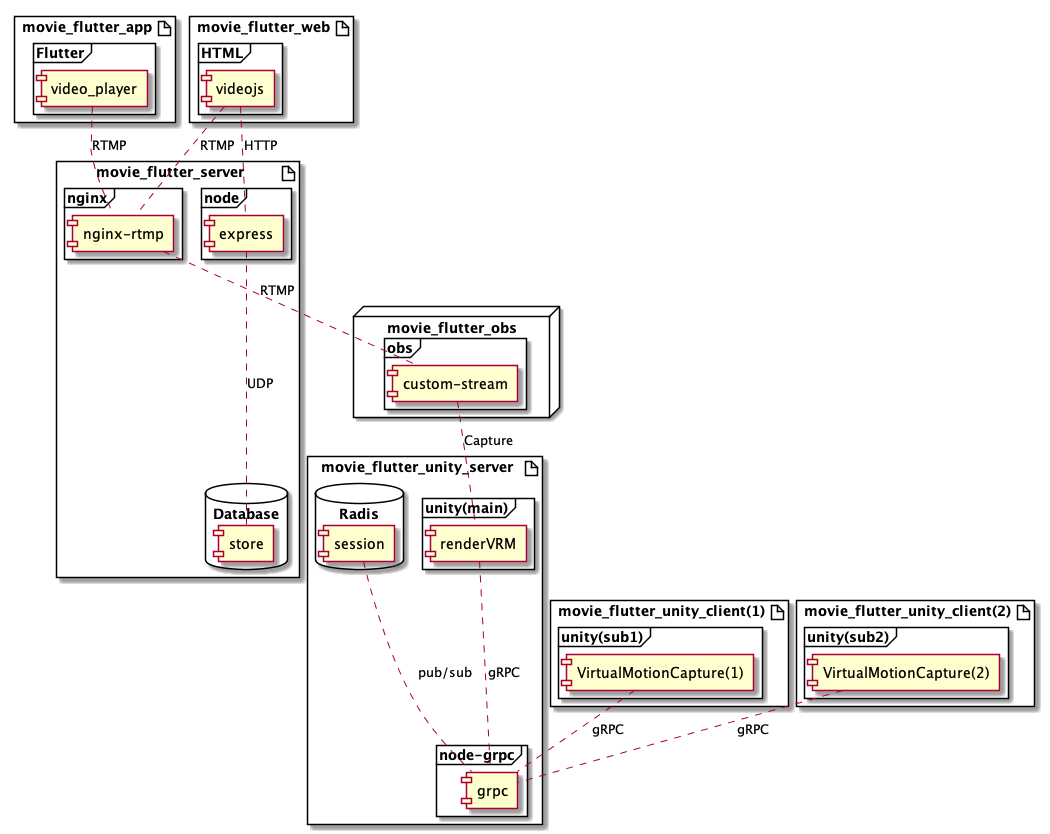
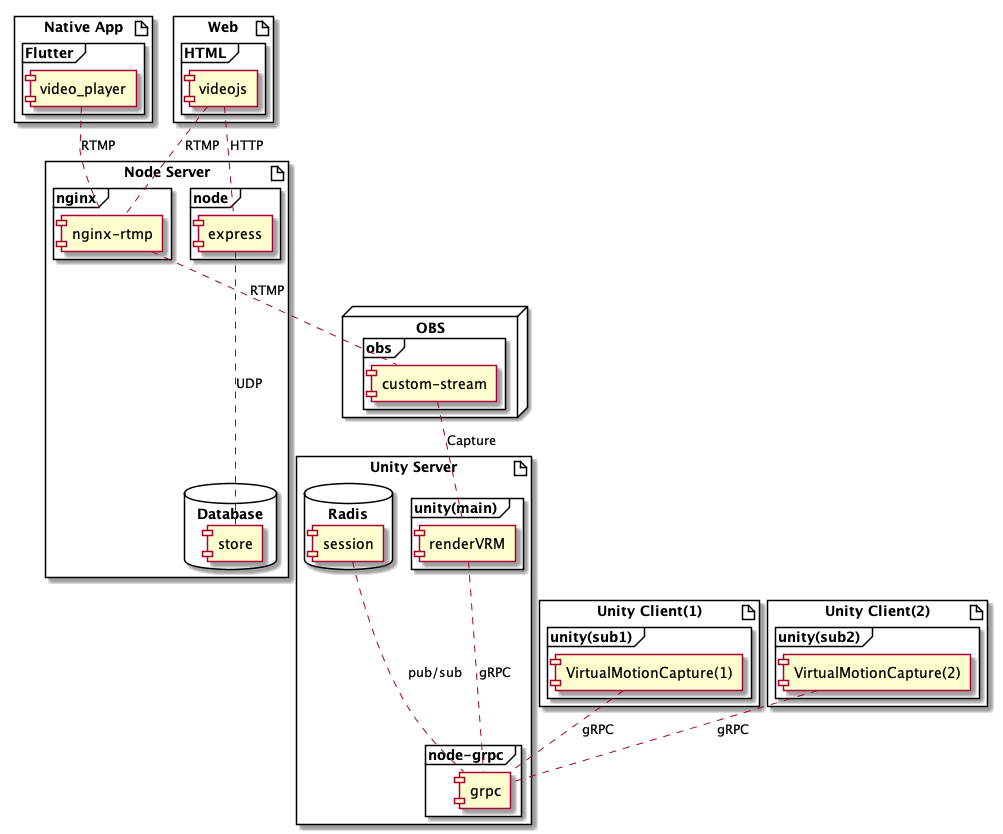
fix diagram

Changed region(s): [[0.0, 0.0, 0.989, 0.9976]]

diff --git a/README.md b/README.md
@@ -1,3 +1,3 @@
-# Movie Flutter
+# Real Time Messaging Protocol + OBS + Unity
 
 <img src=".env/diagram.png">
